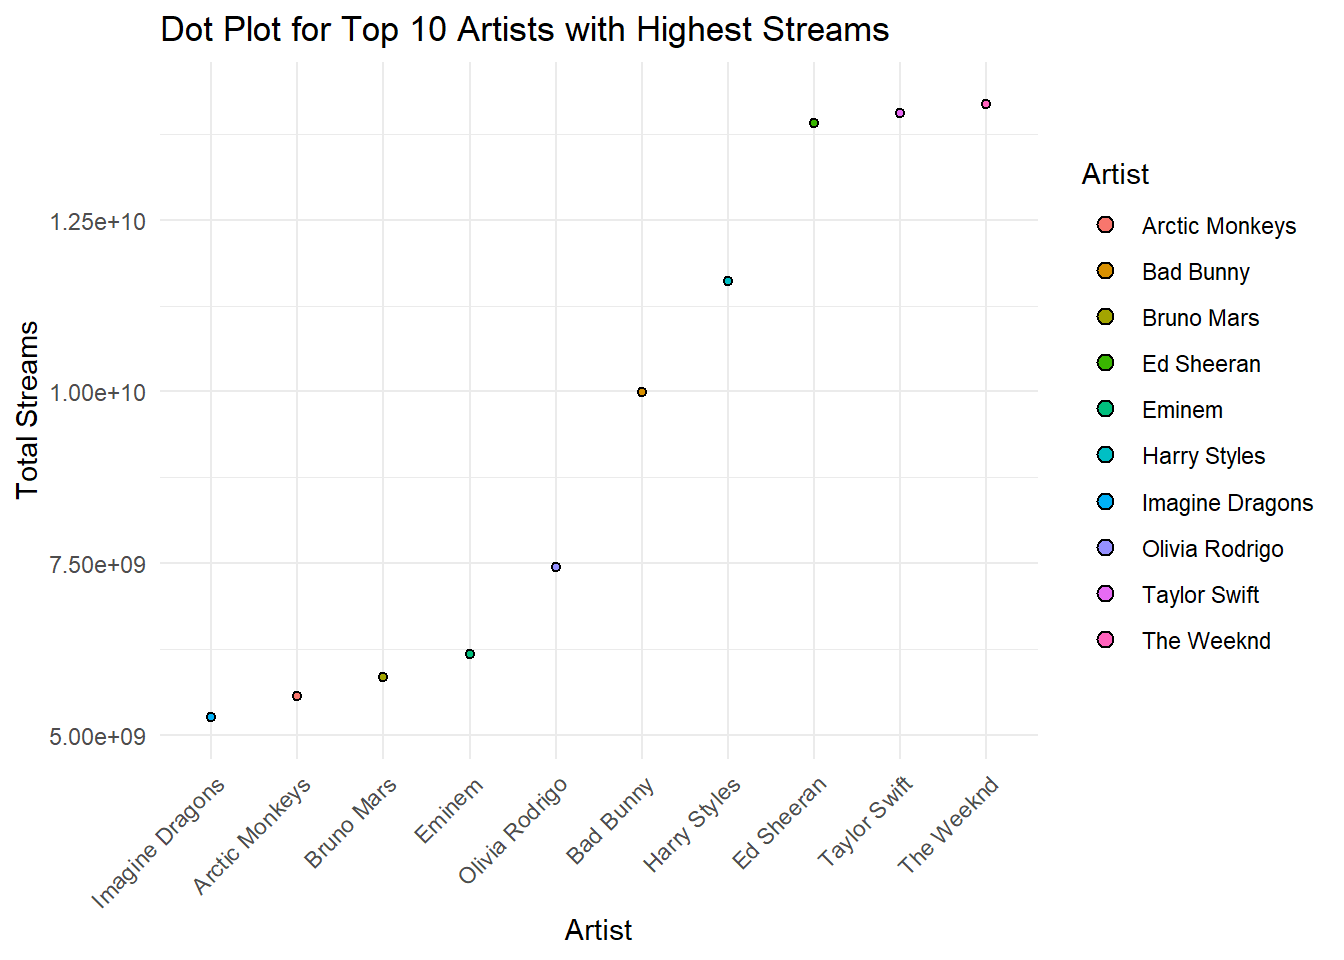
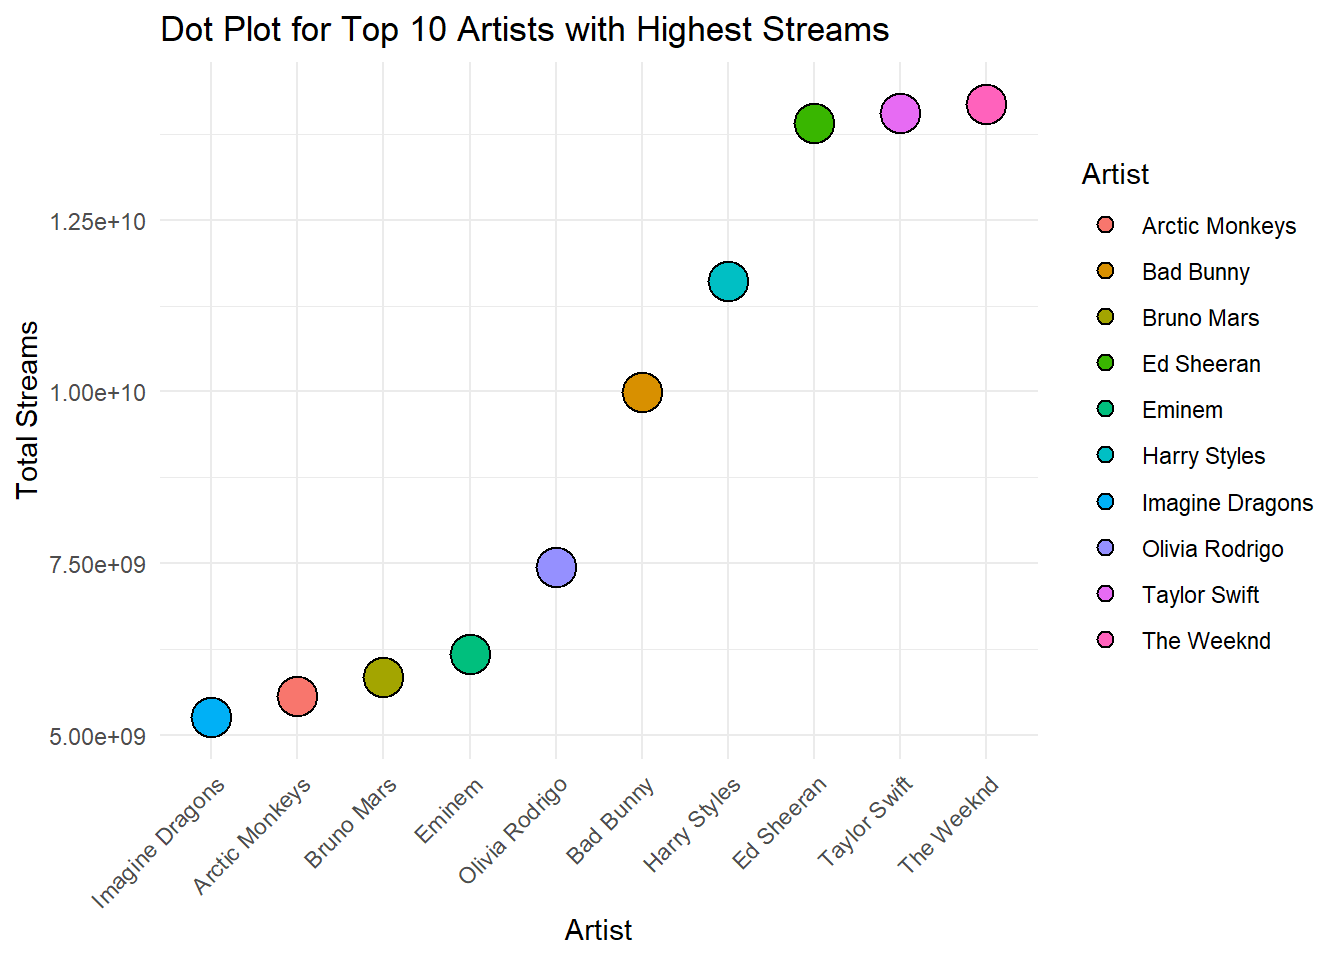
update dot size

diff --git a/docs/inClass2.html b/docs/inClass2.html
@@ -257,8 +257,8 @@ pre > code.sourceCode > span > a:first-child::before { text-decoration: underlin
 <span id="cb1-16"><a href="#cb1-16" aria-hidden="true" tabindex="-1"></a>))</span></code><button title="Copy to Clipboard" class="code-copy-button"><i class="bi"></i></button></pre></div>
 <div class="cell-output-display">
 
-<div class="datatables html-widget html-fill-item-overflow-hidden html-fill-item" id="htmlwidget-f44d5c740cfaf94a1fbd" style="width:100%;height:auto;"></div>
-<script type="application/json" data-for="htmlwidget-f44d5c740cfaf94a1fbd">{"x":{"filter":"none","vertical":false,"editable":{"target":"row","disable":{"columns":[1,3,4]},"numeric":[3,4,5,6,7,8,10,11,13,15,18,19,20,21,22,23,24],"date":[]},"data":[["1","2","3","4","5","6"],["Anti-Hero","Arcade","Glimpse of Us","Seek &amp; Destroy","Summertime Sadness","Come Back Home - From \"Purple Hearts\""],["Taylor Swift","Duncan Laurence","Joji","SZA","Lana Del Rey","Sofia Carson"],[1,1,1,1,1,1],[2022,2019,2022,2022,2011,2022],[10,3,6,12,1,7],[21,7,10,9,1,12],[9082,6646,6330,1007,20333,367],[56,0,6,0,52,0],["999748277","991336132","988515741","98709329","983637508","97610446"],[242,107,109,5,89,28],[142,47,42,31,143,67],["165","584","158","1","1,632","195"],[9,1,3,0,3,0],["310","","31","0","200","0"],[97,72,170,152,112,145],["E","A","G#","C#","C#","G"],["Major","Minor","Major","Major","Minor","Major"],[64,45,44,65,56,56],[51,27,27,35,24,43],[63,33,32,65,66,53],[12,82,89,44,7,24],[0,0,0,18,0,0],[19,14,14,21,12,12],[5,4,5,7,3,4]],"container":"<table class=\"display\">\n  <thead>\n    <tr>\n      <th> <\/th>\n      <th>track_name<\/th>\n      <th>artist.s._name<\/th>\n      <th>artist_count<\/th>\n      <th>released_year<\/th>\n      <th>released_month<\/th>\n      <th>released_day<\/th>\n      <th>in_spotify_playlists<\/th>\n      <th>in_spotify_charts<\/th>\n      <th>streams<\/th>\n      <th>in_apple_playlists<\/th>\n      <th>in_apple_charts<\/th>\n      <th>in_deezer_playlists<\/th>\n      <th>in_deezer_charts<\/th>\n      <th>in_shazam_charts<\/th>\n      <th>bpm<\/th>\n      <th>key<\/th>\n      <th>mode<\/th>\n      <th>danceability_.<\/th>\n      <th>valence_.<\/th>\n      <th>energy_.<\/th>\n      <th>acousticness_.<\/th>\n      <th>instrumentalness_.<\/th>\n      <th>liveness_.<\/th>\n      <th>speechiness_.<\/th>\n    <\/tr>\n  <\/thead>\n<\/table>","options":{"columnDefs":[{"className":"dt-right","targets":[3,4,5,6,7,8,10,11,13,15,18,19,20,21,22,23,24]},{"orderable":false,"targets":0}],"order":[],"autoWidth":false,"orderClasses":false}},"evals":[],"jsHooks":[]}</script>
+<div class="datatables html-widget html-fill-item-overflow-hidden html-fill-item" id="htmlwidget-4551a2747dc995f5ca06" style="width:100%;height:auto;"></div>
+<script type="application/json" data-for="htmlwidget-4551a2747dc995f5ca06">{"x":{"filter":"none","vertical":false,"editable":{"target":"row","disable":{"columns":[1,3,4]},"numeric":[3,4,5,6,7,8,10,11,13,15,18,19,20,21,22,23,24],"date":[]},"data":[["1","2","3","4","5","6"],["Anti-Hero","Arcade","Glimpse of Us","Seek &amp; Destroy","Summertime Sadness","Come Back Home - From \"Purple Hearts\""],["Taylor Swift","Duncan Laurence","Joji","SZA","Lana Del Rey","Sofia Carson"],[1,1,1,1,1,1],[2022,2019,2022,2022,2011,2022],[10,3,6,12,1,7],[21,7,10,9,1,12],[9082,6646,6330,1007,20333,367],[56,0,6,0,52,0],["999748277","991336132","988515741","98709329","983637508","97610446"],[242,107,109,5,89,28],[142,47,42,31,143,67],["165","584","158","1","1,632","195"],[9,1,3,0,3,0],["310","","31","0","200","0"],[97,72,170,152,112,145],["E","A","G#","C#","C#","G"],["Major","Minor","Major","Major","Minor","Major"],[64,45,44,65,56,56],[51,27,27,35,24,43],[63,33,32,65,66,53],[12,82,89,44,7,24],[0,0,0,18,0,0],[19,14,14,21,12,12],[5,4,5,7,3,4]],"container":"<table class=\"display\">\n  <thead>\n    <tr>\n      <th> <\/th>\n      <th>track_name<\/th>\n      <th>artist.s._name<\/th>\n      <th>artist_count<\/th>\n      <th>released_year<\/th>\n      <th>released_month<\/th>\n      <th>released_day<\/th>\n      <th>in_spotify_playlists<\/th>\n      <th>in_spotify_charts<\/th>\n      <th>streams<\/th>\n      <th>in_apple_playlists<\/th>\n      <th>in_apple_charts<\/th>\n      <th>in_deezer_playlists<\/th>\n      <th>in_deezer_charts<\/th>\n      <th>in_shazam_charts<\/th>\n      <th>bpm<\/th>\n      <th>key<\/th>\n      <th>mode<\/th>\n      <th>danceability_.<\/th>\n      <th>valence_.<\/th>\n      <th>energy_.<\/th>\n      <th>acousticness_.<\/th>\n      <th>instrumentalness_.<\/th>\n      <th>liveness_.<\/th>\n      <th>speechiness_.<\/th>\n    <\/tr>\n  <\/thead>\n<\/table>","options":{"columnDefs":[{"className":"dt-right","targets":[3,4,5,6,7,8,10,11,13,15,18,19,20,21,22,23,24]},{"orderable":false,"targets":0}],"order":[],"autoWidth":false,"orderClasses":false}},"evals":[],"jsHooks":[]}</script>
 </div>
 </div>
 <hr>
@@ -310,7 +310,7 @@ pre > code.sourceCode > span > a:first-child::before { text-decoration: underlin
 <span id="cb6-6"><a href="#cb6-6" aria-hidden="true" tabindex="-1"></a>  <span class="fu">top_n</span>(<span class="dv">10</span>, total_streams)</span>
 <span id="cb6-7"><a href="#cb6-7" aria-hidden="true" tabindex="-1"></a></span>
 <span id="cb6-8"><a href="#cb6-8" aria-hidden="true" tabindex="-1"></a><span class="fu">ggplot</span>(top_artists, <span class="fu">aes</span>(<span class="at">x =</span> <span class="fu">reorder</span>(artist.s._name, total_streams), <span class="at">y =</span> total_streams, <span class="at">fill =</span> artist.s._name)) <span class="sc">+</span></span>
-<span id="cb6-9"><a href="#cb6-9" aria-hidden="true" tabindex="-1"></a>  <span class="fu">geom_dotplot</span>(<span class="at">binaxis =</span> <span class="st">"y"</span>, <span class="at">stackdir =</span> <span class="st">"center"</span>, <span class="at">dotsize =</span> <span class="fl">0.5</span>) <span class="sc">+</span></span>
+<span id="cb6-9"><a href="#cb6-9" aria-hidden="true" tabindex="-1"></a>  <span class="fu">geom_dotplot</span>(<span class="at">binaxis =</span> <span class="st">"y"</span>, <span class="at">stackdir =</span> <span class="st">"center"</span>, <span class="at">dotsize =</span> <span class="dv">2</span>) <span class="sc">+</span></span>
 <span id="cb6-10"><a href="#cb6-10" aria-hidden="true" tabindex="-1"></a>  <span class="fu">labs</span>(<span class="at">title =</span> <span class="st">"Dot Plot for Top 10 Artists with Highest Streams"</span>,</span>
 <span id="cb6-11"><a href="#cb6-11" aria-hidden="true" tabindex="-1"></a>       <span class="at">x =</span> <span class="st">"Artist"</span>,</span>
 <span id="cb6-12"><a href="#cb6-12" aria-hidden="true" tabindex="-1"></a>       <span class="at">y =</span> <span class="st">"Total Streams"</span>,</span>

diff --git a/docs/assignment1.html b/docs/assignment1.html
@@ -318,8 +318,8 @@ pre > code.sourceCode > span > a:first-child::before { text-decoration: underlin
 <span id="cb1-16"><a href="#cb1-16" aria-hidden="true" tabindex="-1"></a>))</span></code><button title="Copy to Clipboard" class="code-copy-button"><i class="bi"></i></button></pre></div>
 <div class="cell-output-display">
 
-<div class="datatables html-widget html-fill-item-overflow-hidden html-fill-item" id="htmlwidget-7b0882ecbdc9f56293ea" style="width:100%;height:auto;"></div>
-<script type="application/json" data-for="htmlwidget-7b0882ecbdc9f56293ea">{"x":{"filter":"none","vertical":false,"editable":{"target":"row","disable":{"columns":[1,3,4]},"numeric":[3,4,5,6,7,8,10,11,13,15,18,19,20,21,22,23,24],"date":[]},"data":[["1","2","3","4","5","6"],["Anti-Hero","Arcade","Glimpse of Us","Seek &amp; Destroy","Summertime Sadness","Come Back Home - From \"Purple Hearts\""],["Taylor Swift","Duncan Laurence","Joji","SZA","Lana Del Rey","Sofia Carson"],[1,1,1,1,1,1],[2022,2019,2022,2022,2011,2022],[10,3,6,12,1,7],[21,7,10,9,1,12],[9082,6646,6330,1007,20333,367],[56,0,6,0,52,0],["999748277","991336132","988515741","98709329","983637508","97610446"],[242,107,109,5,89,28],[142,47,42,31,143,67],["165","584","158","1","1,632","195"],[9,1,3,0,3,0],["310","","31","0","200","0"],[97,72,170,152,112,145],["E","A","G#","C#","C#","G"],["Major","Minor","Major","Major","Minor","Major"],[64,45,44,65,56,56],[51,27,27,35,24,43],[63,33,32,65,66,53],[12,82,89,44,7,24],[0,0,0,18,0,0],[19,14,14,21,12,12],[5,4,5,7,3,4]],"container":"<table class=\"display\">\n  <thead>\n    <tr>\n      <th> <\/th>\n      <th>track_name<\/th>\n      <th>artist.s._name<\/th>\n      <th>artist_count<\/th>\n      <th>released_year<\/th>\n      <th>released_month<\/th>\n      <th>released_day<\/th>\n      <th>in_spotify_playlists<\/th>\n      <th>in_spotify_charts<\/th>\n      <th>streams<\/th>\n      <th>in_apple_playlists<\/th>\n      <th>in_apple_charts<\/th>\n      <th>in_deezer_playlists<\/th>\n      <th>in_deezer_charts<\/th>\n      <th>in_shazam_charts<\/th>\n      <th>bpm<\/th>\n      <th>key<\/th>\n      <th>mode<\/th>\n      <th>danceability_.<\/th>\n      <th>valence_.<\/th>\n      <th>energy_.<\/th>\n      <th>acousticness_.<\/th>\n      <th>instrumentalness_.<\/th>\n      <th>liveness_.<\/th>\n      <th>speechiness_.<\/th>\n    <\/tr>\n  <\/thead>\n<\/table>","options":{"columnDefs":[{"className":"dt-right","targets":[3,4,5,6,7,8,10,11,13,15,18,19,20,21,22,23,24]},{"orderable":false,"targets":0}],"order":[],"autoWidth":false,"orderClasses":false}},"evals":[],"jsHooks":[]}</script>
+<div class="datatables html-widget html-fill-item-overflow-hidden html-fill-item" id="htmlwidget-64a6ed464d9dd0a9c503" style="width:100%;height:auto;"></div>
+<script type="application/json" data-for="htmlwidget-64a6ed464d9dd0a9c503">{"x":{"filter":"none","vertical":false,"editable":{"target":"row","disable":{"columns":[1,3,4]},"numeric":[3,4,5,6,7,8,10,11,13,15,18,19,20,21,22,23,24],"date":[]},"data":[["1","2","3","4","5","6"],["Anti-Hero","Arcade","Glimpse of Us","Seek &amp; Destroy","Summertime Sadness","Come Back Home - From \"Purple Hearts\""],["Taylor Swift","Duncan Laurence","Joji","SZA","Lana Del Rey","Sofia Carson"],[1,1,1,1,1,1],[2022,2019,2022,2022,2011,2022],[10,3,6,12,1,7],[21,7,10,9,1,12],[9082,6646,6330,1007,20333,367],[56,0,6,0,52,0],["999748277","991336132","988515741","98709329","983637508","97610446"],[242,107,109,5,89,28],[142,47,42,31,143,67],["165","584","158","1","1,632","195"],[9,1,3,0,3,0],["310","","31","0","200","0"],[97,72,170,152,112,145],["E","A","G#","C#","C#","G"],["Major","Minor","Major","Major","Minor","Major"],[64,45,44,65,56,56],[51,27,27,35,24,43],[63,33,32,65,66,53],[12,82,89,44,7,24],[0,0,0,18,0,0],[19,14,14,21,12,12],[5,4,5,7,3,4]],"container":"<table class=\"display\">\n  <thead>\n    <tr>\n      <th> <\/th>\n      <th>track_name<\/th>\n      <th>artist.s._name<\/th>\n      <th>artist_count<\/th>\n      <th>released_year<\/th>\n      <th>released_month<\/th>\n      <th>released_day<\/th>\n      <th>in_spotify_playlists<\/th>\n      <th>in_spotify_charts<\/th>\n      <th>streams<\/th>\n      <th>in_apple_playlists<\/th>\n      <th>in_apple_charts<\/th>\n      <th>in_deezer_playlists<\/th>\n      <th>in_deezer_charts<\/th>\n      <th>in_shazam_charts<\/th>\n      <th>bpm<\/th>\n      <th>key<\/th>\n      <th>mode<\/th>\n      <th>danceability_.<\/th>\n      <th>valence_.<\/th>\n      <th>energy_.<\/th>\n      <th>acousticness_.<\/th>\n      <th>instrumentalness_.<\/th>\n      <th>liveness_.<\/th>\n      <th>speechiness_.<\/th>\n    <\/tr>\n  <\/thead>\n<\/table>","options":{"columnDefs":[{"className":"dt-right","targets":[3,4,5,6,7,8,10,11,13,15,18,19,20,21,22,23,24]},{"orderable":false,"targets":0}],"order":[],"autoWidth":false,"orderClasses":false}},"evals":[],"jsHooks":[]}</script>
 </div>
 </div>
 <hr>

diff --git a/docs/inClass1.html b/docs/inClass1.html
@@ -258,8 +258,8 @@ pre > code.sourceCode > span > a:first-child::before { text-decoration: underlin
 <span id="cb1-16"><a href="#cb1-16" aria-hidden="true" tabindex="-1"></a>))</span></code><button title="Copy to Clipboard" class="code-copy-button"><i class="bi"></i></button></pre></div>
 <div class="cell-output-display">
 
-<div class="datatables html-widget html-fill-item-overflow-hidden html-fill-item" id="htmlwidget-f62a7e3d1b3f366f05fe" style="width:100%;height:auto;"></div>
-<script type="application/json" data-for="htmlwidget-f62a7e3d1b3f366f05fe">{"x":{"filter":"none","vertical":false,"editable":{"target":"row","disable":{"columns":[1,3,4]},"numeric":[3,4,5,6,7,8,10,11,13,15,18,19,20,21,22,23,24],"date":[]},"data":[["1","2","3","4","5","6"],["Anti-Hero","Arcade","Glimpse of Us","Seek &amp; Destroy","Summertime Sadness","Come Back Home - From \"Purple Hearts\""],["Taylor Swift","Duncan Laurence","Joji","SZA","Lana Del Rey","Sofia Carson"],[1,1,1,1,1,1],[2022,2019,2022,2022,2011,2022],[10,3,6,12,1,7],[21,7,10,9,1,12],[9082,6646,6330,1007,20333,367],[56,0,6,0,52,0],["999748277","991336132","988515741","98709329","983637508","97610446"],[242,107,109,5,89,28],[142,47,42,31,143,67],["165","584","158","1","1,632","195"],[9,1,3,0,3,0],["310","","31","0","200","0"],[97,72,170,152,112,145],["E","A","G#","C#","C#","G"],["Major","Minor","Major","Major","Minor","Major"],[64,45,44,65,56,56],[51,27,27,35,24,43],[63,33,32,65,66,53],[12,82,89,44,7,24],[0,0,0,18,0,0],[19,14,14,21,12,12],[5,4,5,7,3,4]],"container":"<table class=\"display\">\n  <thead>\n    <tr>\n      <th> <\/th>\n      <th>track_name<\/th>\n      <th>artist.s._name<\/th>\n      <th>artist_count<\/th>\n      <th>released_year<\/th>\n      <th>released_month<\/th>\n      <th>released_day<\/th>\n      <th>in_spotify_playlists<\/th>\n      <th>in_spotify_charts<\/th>\n      <th>streams<\/th>\n      <th>in_apple_playlists<\/th>\n      <th>in_apple_charts<\/th>\n      <th>in_deezer_playlists<\/th>\n      <th>in_deezer_charts<\/th>\n      <th>in_shazam_charts<\/th>\n      <th>bpm<\/th>\n      <th>key<\/th>\n      <th>mode<\/th>\n      <th>danceability_.<\/th>\n      <th>valence_.<\/th>\n      <th>energy_.<\/th>\n      <th>acousticness_.<\/th>\n      <th>instrumentalness_.<\/th>\n      <th>liveness_.<\/th>\n      <th>speechiness_.<\/th>\n    <\/tr>\n  <\/thead>\n<\/table>","options":{"columnDefs":[{"className":"dt-right","targets":[3,4,5,6,7,8,10,11,13,15,18,19,20,21,22,23,24]},{"orderable":false,"targets":0}],"order":[],"autoWidth":false,"orderClasses":false}},"evals":[],"jsHooks":[]}</script>
+<div class="datatables html-widget html-fill-item-overflow-hidden html-fill-item" id="htmlwidget-bdcbbf23584b7521831e" style="width:100%;height:auto;"></div>
+<script type="application/json" data-for="htmlwidget-bdcbbf23584b7521831e">{"x":{"filter":"none","vertical":false,"editable":{"target":"row","disable":{"columns":[1,3,4]},"numeric":[3,4,5,6,7,8,10,11,13,15,18,19,20,21,22,23,24],"date":[]},"data":[["1","2","3","4","5","6"],["Anti-Hero","Arcade","Glimpse of Us","Seek &amp; Destroy","Summertime Sadness","Come Back Home - From \"Purple Hearts\""],["Taylor Swift","Duncan Laurence","Joji","SZA","Lana Del Rey","Sofia Carson"],[1,1,1,1,1,1],[2022,2019,2022,2022,2011,2022],[10,3,6,12,1,7],[21,7,10,9,1,12],[9082,6646,6330,1007,20333,367],[56,0,6,0,52,0],["999748277","991336132","988515741","98709329","983637508","97610446"],[242,107,109,5,89,28],[142,47,42,31,143,67],["165","584","158","1","1,632","195"],[9,1,3,0,3,0],["310","","31","0","200","0"],[97,72,170,152,112,145],["E","A","G#","C#","C#","G"],["Major","Minor","Major","Major","Minor","Major"],[64,45,44,65,56,56],[51,27,27,35,24,43],[63,33,32,65,66,53],[12,82,89,44,7,24],[0,0,0,18,0,0],[19,14,14,21,12,12],[5,4,5,7,3,4]],"container":"<table class=\"display\">\n  <thead>\n    <tr>\n      <th> <\/th>\n      <th>track_name<\/th>\n      <th>artist.s._name<\/th>\n      <th>artist_count<\/th>\n      <th>released_year<\/th>\n      <th>released_month<\/th>\n      <th>released_day<\/th>\n      <th>in_spotify_playlists<\/th>\n      <th>in_spotify_charts<\/th>\n      <th>streams<\/th>\n      <th>in_apple_playlists<\/th>\n      <th>in_apple_charts<\/th>\n      <th>in_deezer_playlists<\/th>\n      <th>in_deezer_charts<\/th>\n      <th>in_shazam_charts<\/th>\n      <th>bpm<\/th>\n      <th>key<\/th>\n      <th>mode<\/th>\n      <th>danceability_.<\/th>\n      <th>valence_.<\/th>\n      <th>energy_.<\/th>\n      <th>acousticness_.<\/th>\n      <th>instrumentalness_.<\/th>\n      <th>liveness_.<\/th>\n      <th>speechiness_.<\/th>\n    <\/tr>\n  <\/thead>\n<\/table>","options":{"columnDefs":[{"className":"dt-right","targets":[3,4,5,6,7,8,10,11,13,15,18,19,20,21,22,23,24]},{"orderable":false,"targets":0}],"order":[],"autoWidth":false,"orderClasses":false}},"evals":[],"jsHooks":[]}</script>
 </div>
 </div>
 <hr>
